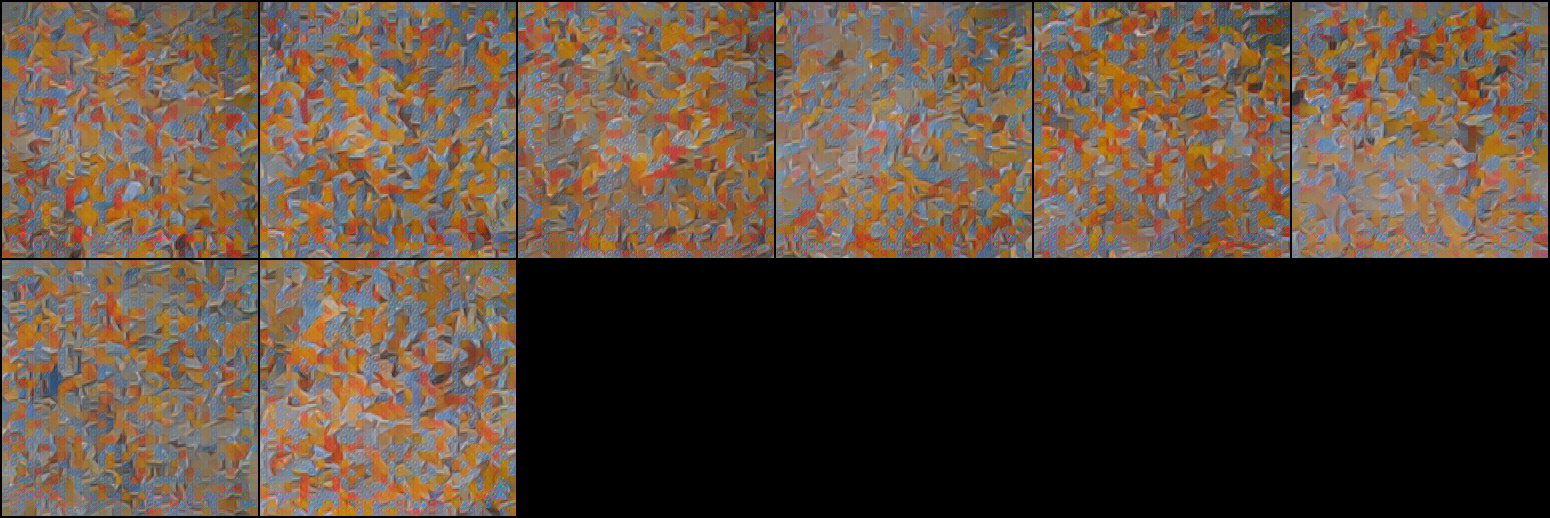
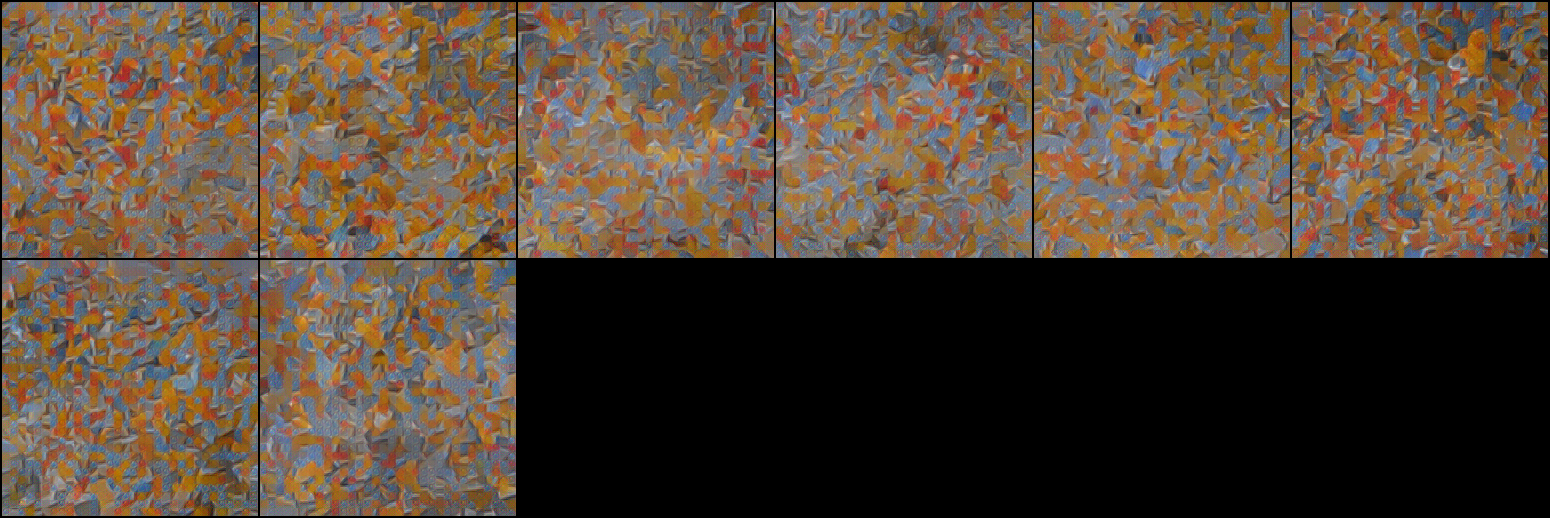
updated parti with clip

diff --git a/models/parti.py b/models/parti.py
@@ -4,7 +4,6 @@ import torch
 import torch.nn.functional as F
 from torch import nn, einsum
 import torchvision.transforms as T
-from models.t5 import T5Encoder, get_encoded_dim
 from einops import rearrange, repeat, pack
 from typing import Callable, Optional, List
 from models.positional_encoding import PositionalEncoding
@@ -13,6 +12,7 @@ import math
 from einops import rearrange, repeat
 from models.transformer import Decoder
 from models.vqgan import VQGAN
+from transformers import AutoTokenizer, CLIPTextModel
 
 def exists(val):
 	return val is not None
@@ -27,17 +27,22 @@ def filter_logits(logits, p=0.9):
 
 
 class TextEncoder(torch.nn.Module):
-	def __init__(self, dim, t5_name, max_length):
+	def __init__(self, dim, enc_type, enc_name, max_length):
 		super().__init__()
-	
-		self.t5_encoder = T5Encoder(t5_name, max_length)
-		text_embed_dim = get_encoded_dim(t5_name)
-		self.text_embed_proj = nn.Linear(text_embed_dim, dim, bias = False)
-	
+  
+		self.max_length = max_length
+
+		if enc_type == "clip":
+			self.encoder = CLIPTextModel.from_pretrained(enc_name)
+			self.tokenizer = AutoTokenizer.from_pretrained(enc_name)
+		else:
+			raise ValueError(f"Invalid encoder type {enc_type}")
+
 	def forward(self, texts: List[str]):
-		context_mask, text_embeds = self.t5_encoder(texts)
-		text_embeds = self.text_embed_proj(text_embeds)
-		return context_mask, text_embeds
+		inputs = self.tokenizer(texts, return_tensors="pt", max_length=77, padding="max_length")["input_ids"]
+		text_embeds = self.encoder(inputs.cuda()).last_hidden_state
+		return text_embeds
+
 
 # TODO: add classifier free guidance	
 
@@ -46,7 +51,8 @@ class Parti(nn.Module):
 		self,
 		dim,
 		vq,
-		t5_name,
+		enc_type,
+		enc_name,
 		max_length,
 		n_heads,
 		d_head,
@@ -57,7 +63,7 @@ class Parti(nn.Module):
 		self.vq = vq
 		
 		#### Text Encoder  ####
-		self.text_encoder = TextEncoder(dim, t5_name, max_length)
+		self.text_encoder = TextEncoder(dim, enc_type, enc_name, max_length)
 		self.context_norm = nn.LayerNorm(dim)
 		
 		#### Transformer Decoder ####
@@ -81,7 +87,7 @@ class Parti(nn.Module):
 		device = imgs.device
 
 		# text encoder
-		context_mask , text_embeds = self.text_encoder(texts) # (batch_size, seq_len, dim)
+		text_embeds = self.text_encoder(texts) # (batch_size, seq_len, dim)
 		text_embeds = self.context_norm(text_embeds)
   
 		# convert images to indices
@@ -103,7 +109,7 @@ class Parti(nn.Module):
 		# add init norm
 		img_token_embeds = self.init_norm(img_token_embeds)
 		# transformer decoder
-		dec_out = self.transformer_decoder(dec_in=img_token_embeds, context=text_embeds, context_mask=context_mask, causal_mask=causal_mask)\
+		dec_out = self.transformer_decoder(dec_in=img_token_embeds, context=text_embeds, causal_mask=causal_mask)
 		# add final norm
 		dec_out = self.final_norm(dec_out)
 		# to logits
@@ -116,7 +122,7 @@ class Parti(nn.Module):
 	def generate(self, texts : List[str]):
 		b = len(texts)
 		# text encoder
-		context_mask , text_embeds = self.text_encoder(texts) # (batch_size, seq_len, dim)
+		text_embeds = self.text_encoder(texts) # (batch_size, seq_len, dim)
 
 		start_token = repeat(self.start_token, 'd -> b 1 d', b=b)
 		
@@ -130,7 +136,7 @@ class Parti(nn.Module):
 			img_token_embeds = torch.cat((start_token, img_token_embeds), dim=1)
 			# decoder
 			self.init_norm(img_token_embeds)
-			dec_out = self.transformer_decoder(dec_in=img_token_embeds, context=text_embeds, context_mask=context_mask)
+			dec_out = self.transformer_decoder(dec_in=img_token_embeds, context=text_embeds)
 			self.final_norm(dec_out)
 			# to logits
 			logits = self.to_logits(dec_out)

diff --git a/README.md b/README.md
@@ -209,7 +209,8 @@ vitvqgan = ViTVQGAN(vit_params, codebook_params)
 # Parti 
 dim = 512
 encoder_params = dict(
-	t5_name = "google/t5-v1_1-base",
+	enc_type = 'clip',
+	enc_name = 'openai/clip-vit-base-patch32',
 	max_length = 77
 )
  
